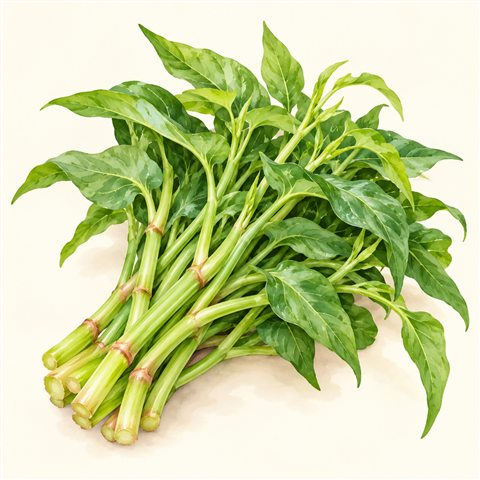
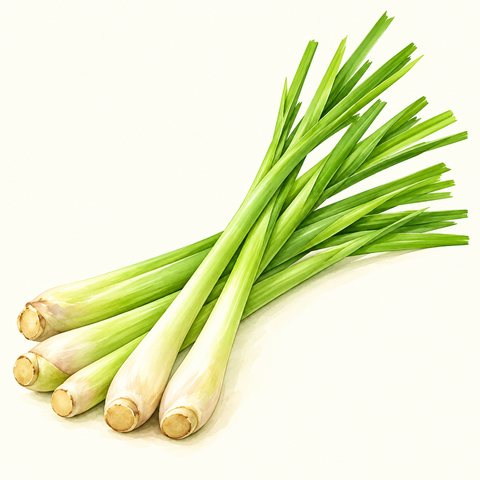
Correct lemongrass cartoon artwork and label

diff --git a/store-data.js b/store-data.js
@@ -423,7 +423,7 @@ window.STALL = {
     },
     {
         "id": "lemongrass",
-        "name": "冲茅",
+        "name": "香茅",
         "category": "根茎",
         "unit": "公斤",
         "price": 5.0,

diff --git a/CARTOON-ARTWORK.md b/CARTOON-ARTWORK.md
@@ -52,7 +52,7 @@ Generated illustrations are not a guarantee that no similar work exists or that 
 | winter-melon | 冬瓜 | [winter-melon.jpg](images/cartoon/winter-melon.jpg) |
 | french-bean | 四季豆 | [french-bean.jpg](images/cartoon/french-bean.jpg) |
 | field-bean | 长豆 | [field-bean.jpg](images/cartoon/field-bean.jpg) |
-| lemongrass | 冲茅 | [lemongrass.jpg](images/cartoon/lemongrass.jpg) |
+| lemongrass | 香茅 | [lemongrass.jpg](images/cartoon/lemongrass.jpg) |
 | qing-chong | 青葱 | [qing-chong.jpg](images/cartoon/qing-chong.jpg) |
 | celery-stalk | 芹菜 | [celery-stalk.jpg](images/cartoon/celery-stalk.jpg) |
 | garlic-shoots | 蒜仔 | [garlic-shoots.jpg](images/cartoon/garlic-shoots.jpg) |
